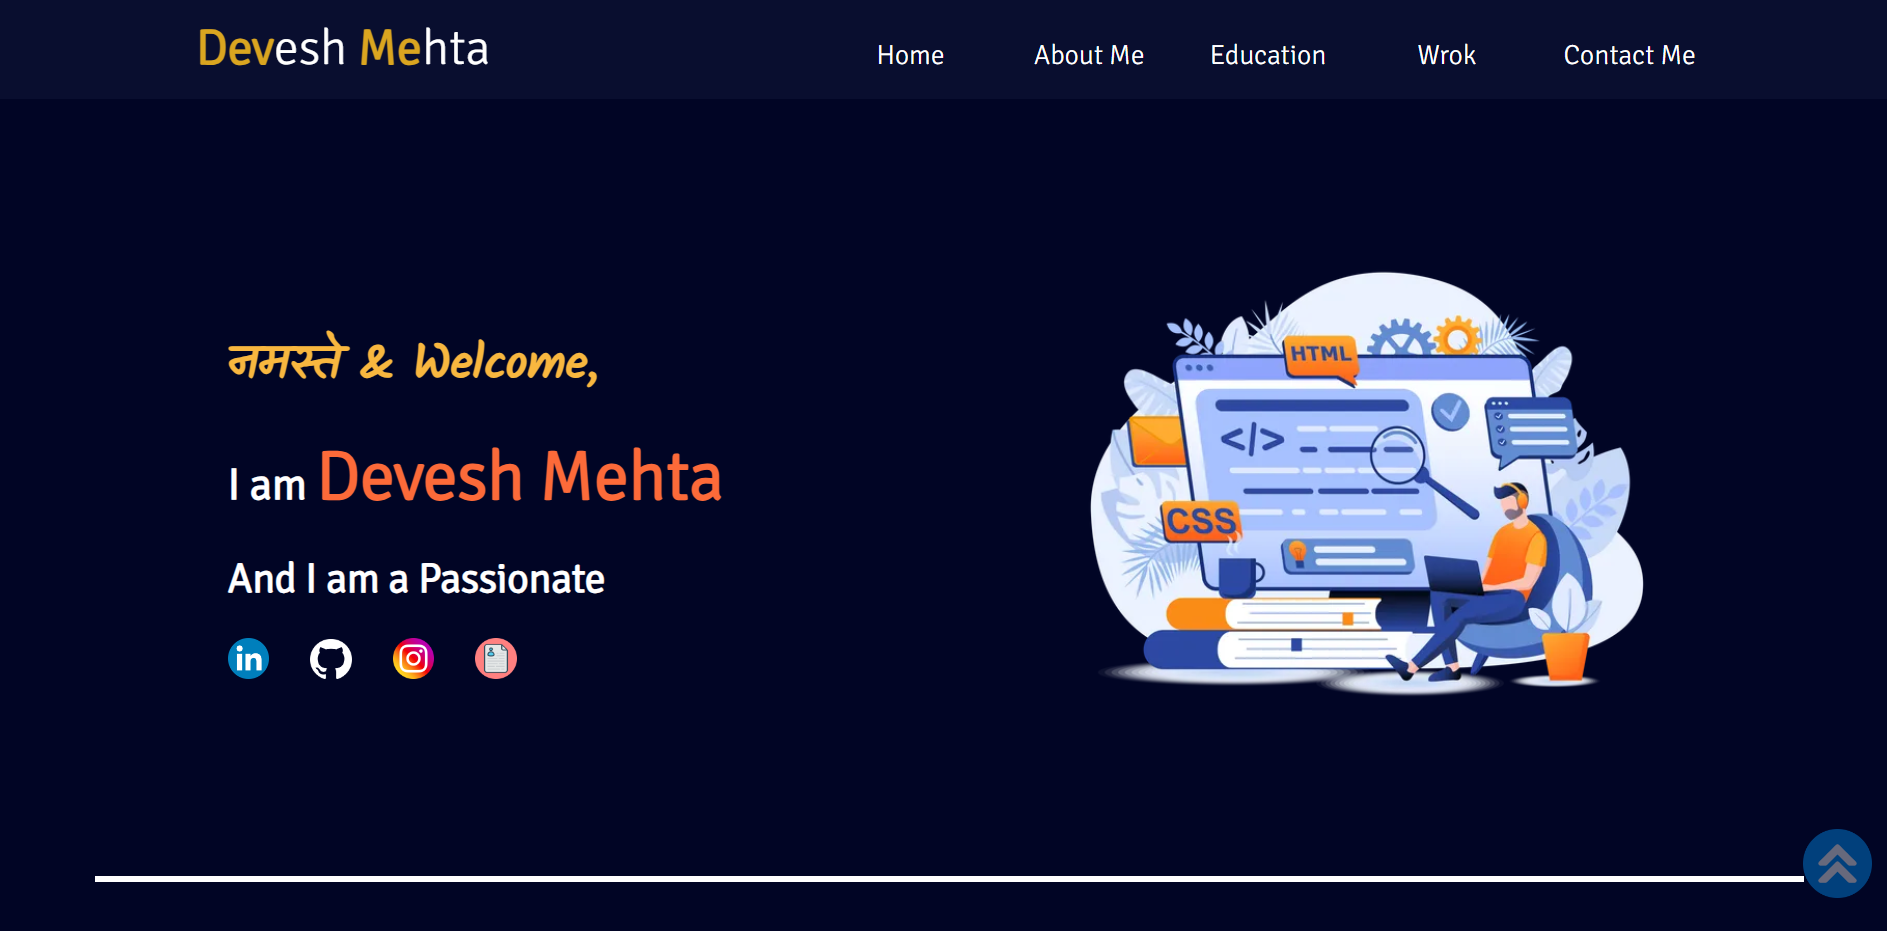
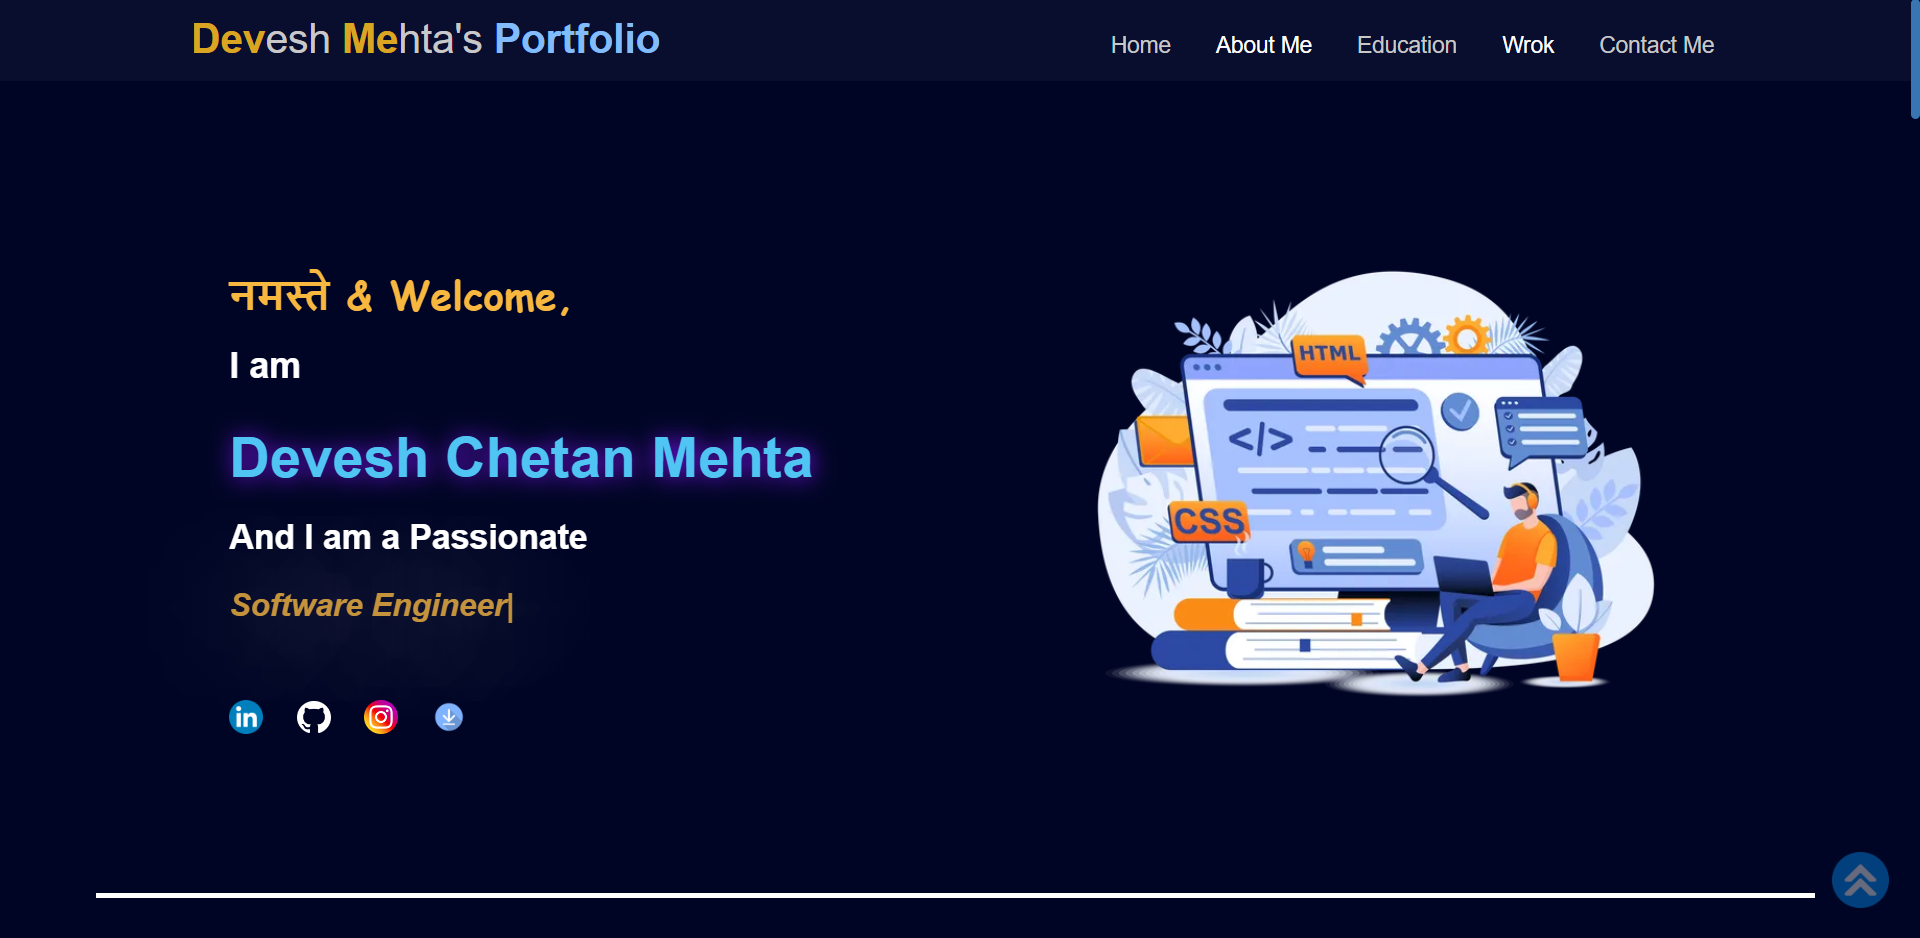
Resume Link Updated

diff --git a/src/Contact.js b/src/Contact.js
@@ -23,6 +23,7 @@ function Contact() {
     
     const handleSubmit=(event)=>{
         event.preventDefault();
+        setMsg('Sending your query...')
         fetch("https://flask-mail-4rtz.onrender.com/send_emails", {
             method: "POST",
             headers: {
@@ -33,8 +34,7 @@ function Contact() {
             .then((response) => response.json())
             
             .then((data) => {
-                console.log(data)
-                alert('Mail sent')
+                setMsg('Your query sent successfully.')
             })
             .catch((error) => {
                 console.error("Error fetching data:", error);
@@ -58,6 +58,7 @@ function Contact() {
     //         })
     //     }
     // }
+    const [msg,setMsg]=useState('')
     return (
         <div id="contact-box">
             <h1 id="who" data-aos="zoom-in-up" data-aos-duration="1000">Liked my profile? {(window.innerWidth<1000)?<br/>:''}<span className='typed-text'><Typed strings={['You can find me here...']} typeSpeed={150} loopCount={1}/></span>
@@ -84,12 +85,13 @@ function Contact() {
                         </fieldset>
                         <fieldset>
                             <legend>Query*</legend>
-                            <textarea name="query" id="msg" cols="30" rows="3" required onChange={handleChange}></textarea>
+                            <textarea name="msg" id="query" cols="30" rows="3" required onChange={handleChange}></textarea>
                         </fieldset>
                         <div id="contact-form-submit">
                             <input type="submit" name="Submit" value="Submit" onSubmit={handleSubmit}/>
                             <input type="reset" value="Reset" />
                         </div>
+                        <div id='msg-box'>{msg}</div>
                     </form>
                 </div>
                 <div id="contact-down">
@@ -108,7 +110,7 @@ function Contact() {
                     <h2 id="contact-form-title" data-aos="zoom-in-up" data-aos-duration="1000">Resume</h2>
                     <ul id="contact-list">
                         <li data-aos="zoom-in-up" data-aos-duration="1000" href="#"><a target="_blank" rel="noreferrer"
-                                href="https://www.canva.com/design/DAFt9T5c3vk/GolOZY_DMOJm_K4MR_Y-Ig/view?utm_content=DAFt9T5c3vk&utm_campaign=designshare&utm_medium=link&utm_source=publishsharelink"><img src={download}
+                                href="https://drive.google.com/file/d/1tk9GDpLO5NnjHXecfvpXQExENsQlLd7X/view?usp=sharing"><img src={download}
                             alt="Download Resume" />Download
                                 Resume</a></li>
                     </ul>

diff --git a/src/Work.js b/src/Work.js
@@ -5,17 +5,27 @@ import html from './Photo/html.png'
 import css from './Photo/css.png'
 import js from './Photo/js.png'
 import git from './Photo/git.png'
+import flask from './Photo/flask.png'
 import react from './Photo/reactIcon.png'
 import yt from './Photo/youtube.png'
 import arduino from './Photo/arduino.png'
 import healthify from './Photo/healthify.in.png'
 import portfolio from './Photo/portfolio.png'
+import expense from './Photo/expense.png'
 import LineFollwer from './Photo/line follower1.jpg'
 import Typed from 'react-typed'
 
 function Work() {
     const [project] = useState(
         [
+            {
+                name:'Personal Expense Manager',
+                tech:[html,css,js,react,flask],
+                link:'',
+                linkIcon:git,
+                image:expense,
+                desc:'Full Stack Project to manage persoanl income/expenses'
+            },
             {
                 name:'Personal Portfolio Website',
                 tech:[html,css,js,react],
@@ -60,7 +70,7 @@ function Work() {
                                     <div className="proj-name">{curr.name}</div>
                                     <div className="proj-desc">{curr.desc}</div>
                                     <div className="proj-tech">Project Technologies: {curr.tech.map((icon)=>{
-                                        return(<img src={icon} title={String(icon)} alt="HTML" />)
+                                        return(<img src={icon} alt="HTML" style={{width:(curr.linkIcon===flask)?'45px':'30px'}}/>)
                                     })}</div>
                                     <div className="proj-link">Project Link: <a target="_blank"
                                         href={curr.link} rel='noreferrer'><img src={curr.linkIcon} alt="GitPage"
@@ -81,7 +91,7 @@ function Work() {
                                     <div className="proj-name">{curr.name}</div>
                                     <div className="proj-desc">{curr.desc}</div>
                                     <div className="proj-tech">Project Technologies: {curr.tech.map((icon)=>{
-                                        return(<img src={icon} alt="HTML" />)
+                                        return(<img src={icon} alt="HTML" style={{width:(curr.linkIcon===flask)?'45px':'30px'}}/>)
                                     })}</div>
                                     <div className="proj-link">Project Link: <a target="_blank"
                                         href={curr.link} rel='noreferrer'><img src={curr.linkIcon} alt="GitPage"

diff --git a/src/Mobile.js b/src/Mobile.js
@@ -27,7 +27,7 @@ function Mobile({ isOpen, setIsOpen, handleClick }) {
                     <a target="_blank" rel="noreferrer" href="https://www.instagram.com/devesh_1217/"><img src={insta}
                         alt="Instagram" /></a>
                     <a target="_blank" rel="noreferrer"
-                        href="https://www.canva.com/design/DAFt9T5c3vk/GolOZY_DMOJm_K4MR_Y-Ig/view?utm_content=DAFt9T5c3vk&utm_campaign=designshare&utm_medium=link&utm_source=publishsharelink"><img
+                        href="https://drive.google.com/file/d/1tk9GDpLO5NnjHXecfvpXQExENsQlLd7X/view?usp=sharing"><img
                             src={download} alt="Download Resume" title="Download Resume" /></a>
                 </div>
                 <div id="cp">&copy; 2023. All rights are reserved.</div>

diff --git a/src/Home.js b/src/Home.js
@@ -23,7 +23,7 @@ export default function Home() {
                     <a target="_blank" rel="noreferrer" href="https://www.instagram.com/devesh_1217/"><img src={insta}
                         alt="Instagram" /></a>
                     <a target="_blank" rel="noreferrer"
-                        href="https://www.canva.com/design/DAFt9T5c3vk/GolOZY_DMOJm_K4MR_Y-Ig/view?utm_content=DAFt9T5c3vk&utm_campaign=designshare&utm_medium=link&utm_source=publishsharelink"><img
+                        href="https://drive.google.com/file/d/1tk9GDpLO5NnjHXecfvpXQExENsQlLd7X/view?usp=sharing"><img
                             src={download} alt="Resume" title="Resume" /></a>
                 </div>
             </div>

diff --git a/public/index.html b/public/index.html
@@ -2,7 +2,7 @@
 <html lang="en">
   <head>
     <meta charset="utf-8" />
-    <link rel="icon" href="%PUBLIC_URL%/favicon.ico" />
+    <link rel="icon" href="./favicon.png" />
     <meta name="viewport" content="width=device-width, initial-scale=1" />
     <meta name="theme-color" content="#000000" />
     <meta
@@ -24,7 +24,7 @@
       work correctly both with client-side routing and a non-root public URL.
       Learn how to configure a non-root public URL by running `npm run build`.
     -->
-    <title>React App</title>
+    <title>Devesh Mehta's Portfolio</title>
   </head>
   <body>
     <noscript>You need to enable JavaScript to run this app.</noscript>

diff --git a/src/StyleSheet/intro.css b/src/StyleSheet/intro.css
@@ -91,6 +91,7 @@
 }
 #tech-skill-list{
     list-style:  '👨🏻💻';
+    padding-left: 90px;
 }
 .bg-line{
     margin-top: 5px;
@@ -112,6 +113,7 @@
 }
 #soft-skill-list{
     list-style:  '🧑🏻💼';
+    padding-left: 90px;
 }
 .soft-skill-desc{
     color: #5b667a;
@@ -157,8 +159,11 @@
         font-size: 20px;
         margin-left: 0;
     }
-    #hobby-list,#lang-list,#soft-skill-list,#tech-skill-list{
+    #hobby-list,#lang-list{
         padding-left: 0;
+    }
+    #soft-skill-list,#tech-skill-list{
+        padding-left: 40px;
     }
     #who{
         font-size: 36px;

diff --git a/src/StyleSheet/contact.css b/src/StyleSheet/contact.css
@@ -118,6 +118,12 @@
 #cp a{
     color: rgb(182, 190, 206);
 }
+#msg-box{
+    color: rgb(161, 161, 161);
+    text-align: center;
+    font-size: 18px;
+    margin-top: 20px;
+}
 @media screen and (width<1000px) {
     #contact-content{
         flex-direction: column;
